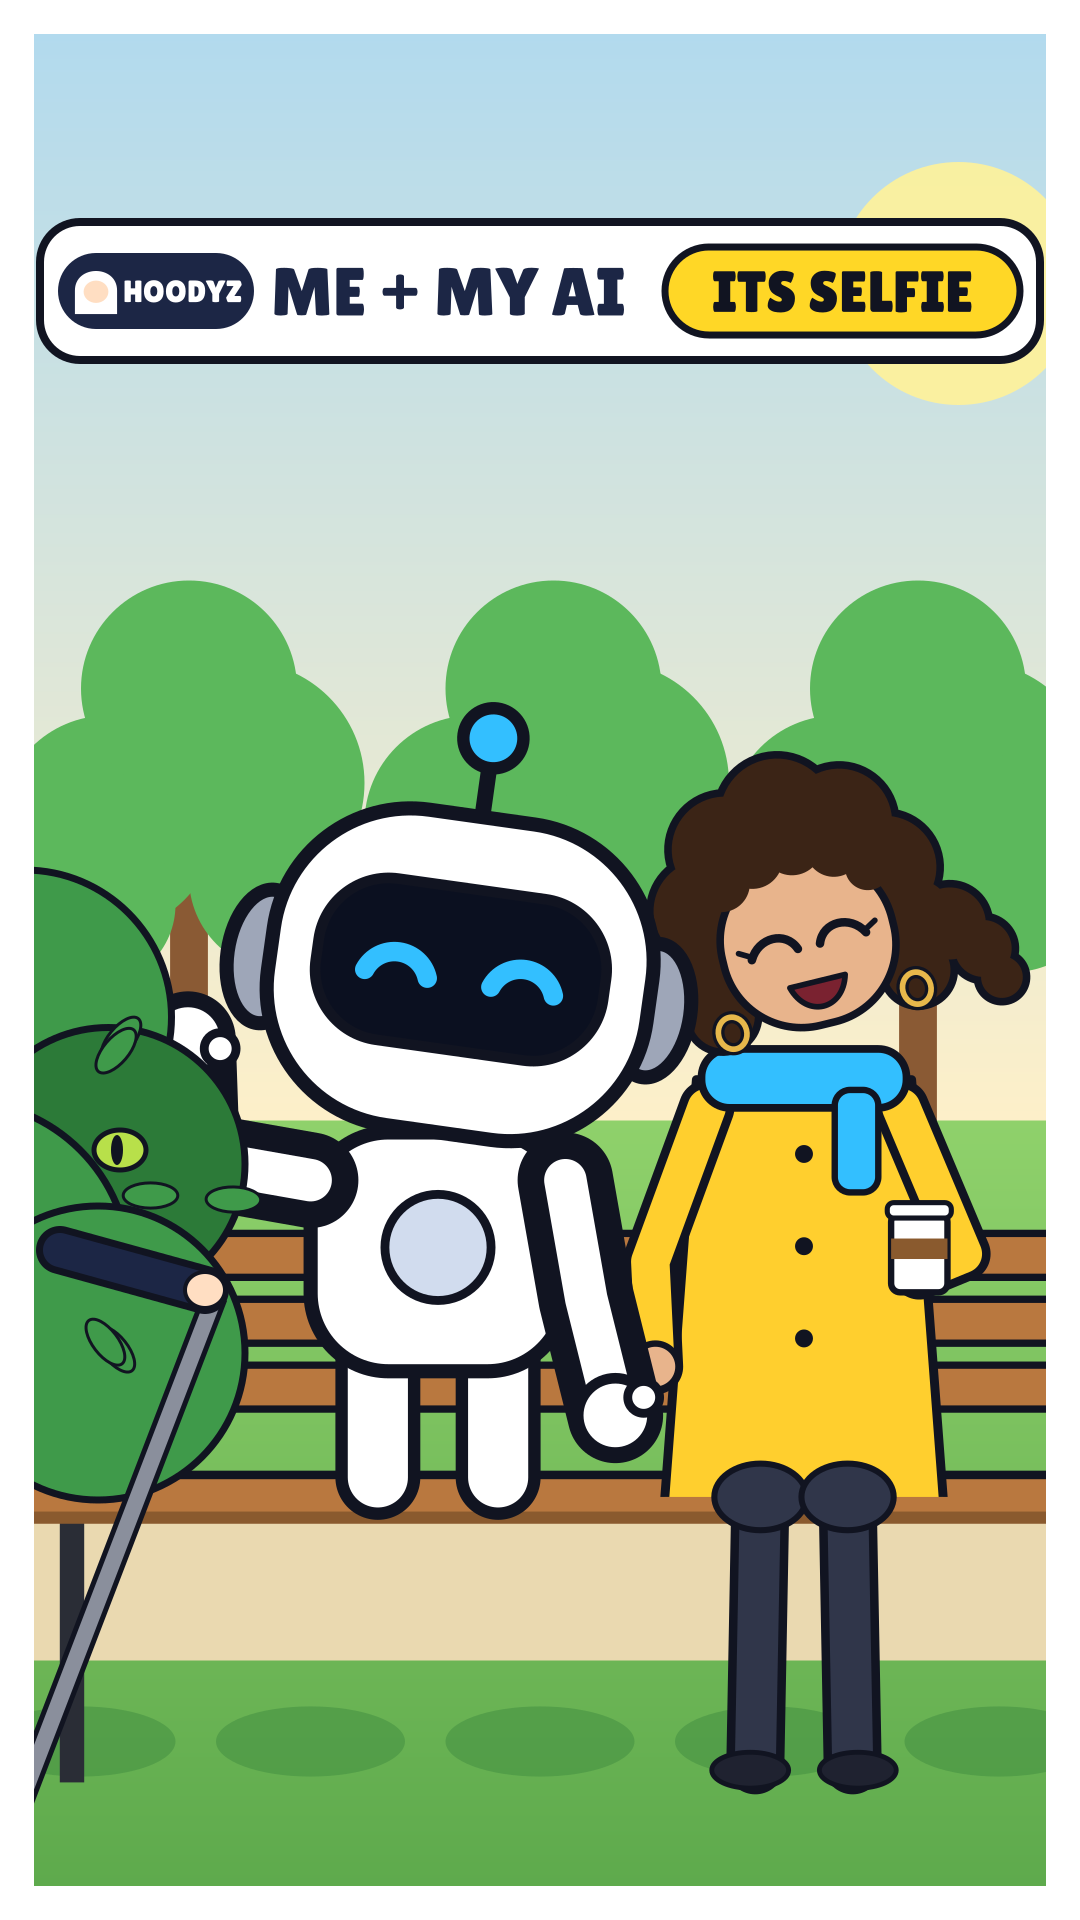
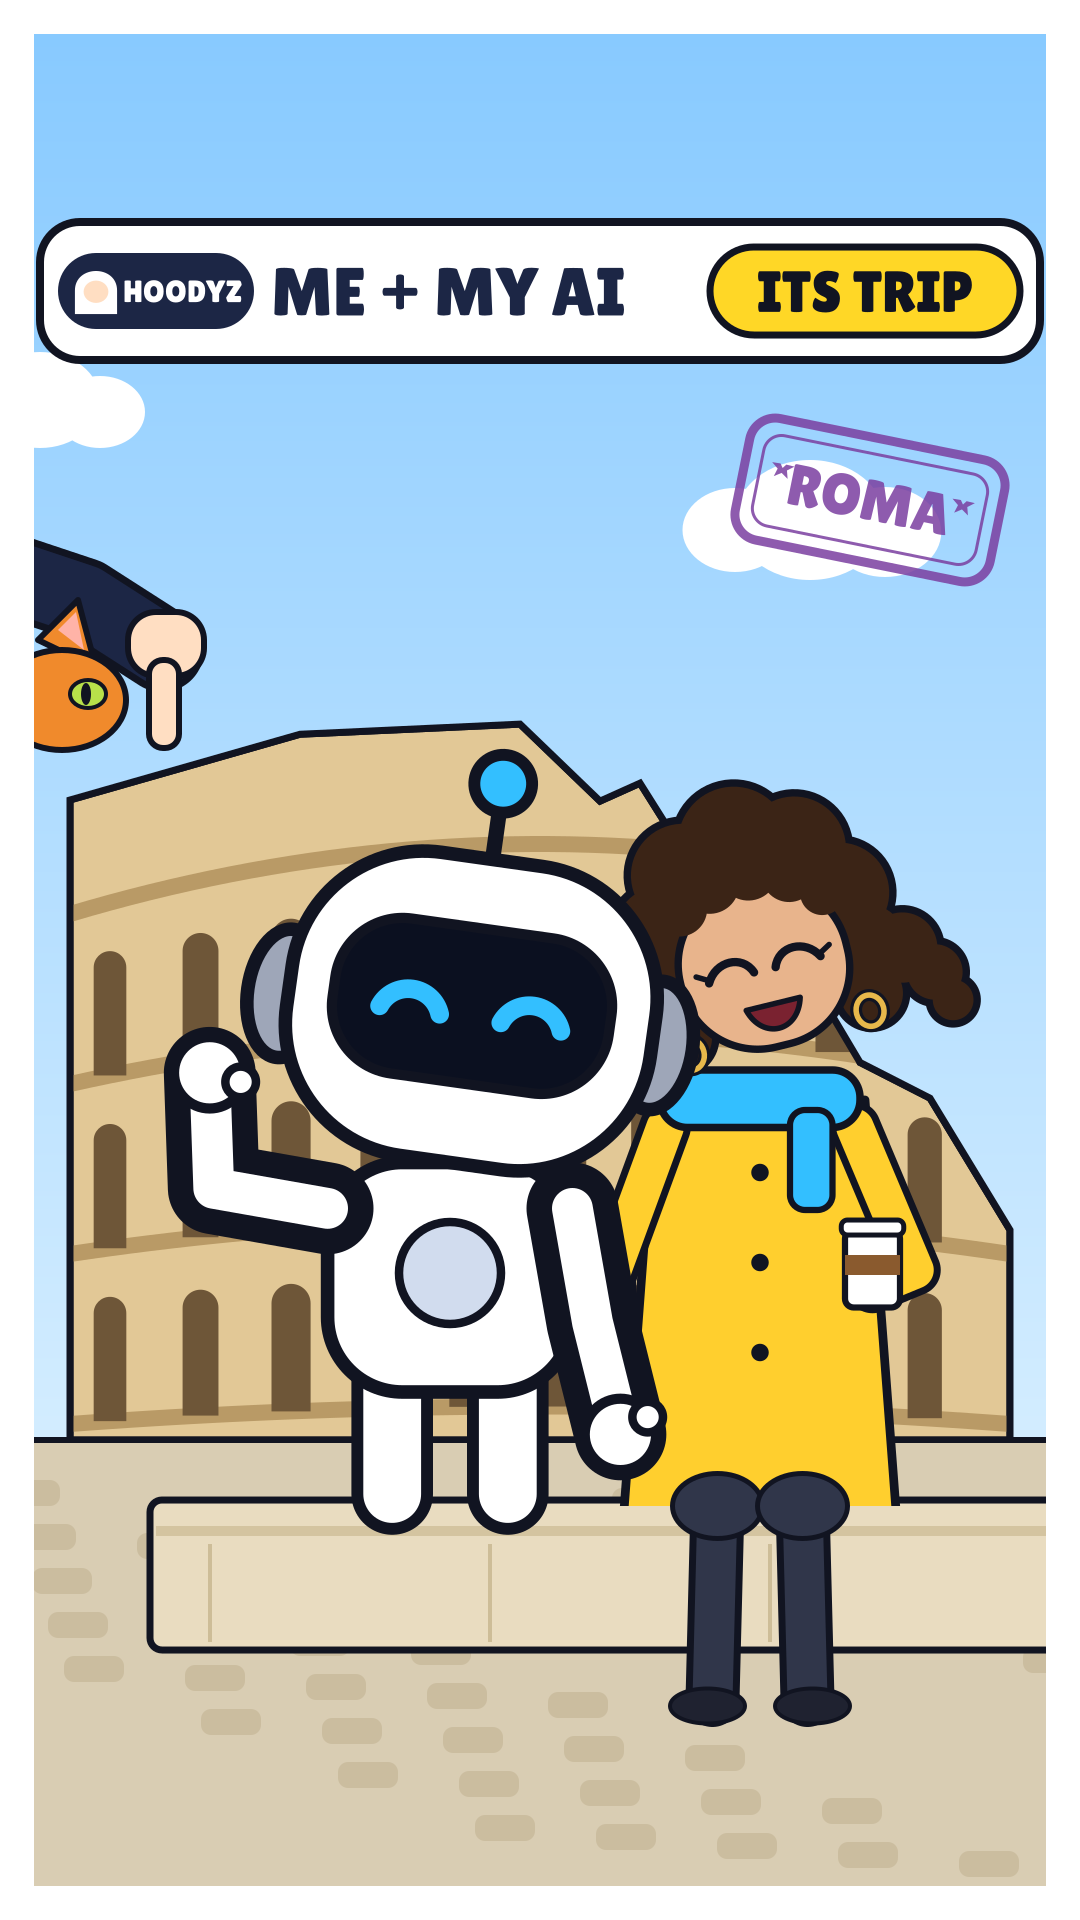
Perfect Trip: the Rome photo (finale) for approval
Eva seated on a travertine ledge leaning towards MY AI (open-palm wave, hands nearly touching);
Hoody's finger in from the left pressing the Colosseum's top (the forced-perspective pose, at last);
the cat's ear and eye peeking under his sleeve; ROMA stamp; ITS TRIP.

Claude-Session: https://claude.ai/code/session_01ED8DLRS3kXn1pdhXqYBM3Q

diff --git a/perfect-selfie/photo.py b/perfect-selfie/photo.py
@@ -1,11 +1,12 @@
 """Perfect Selfie - shot 9, THE PHOTO, as a still for approval (production gate 1).
 Eva seated on the bench, leaning her head towards MY AI (who stands on the seat, faces level, its perfect demo smile).
-At the left edge: the bush, a tiny navy sleeve gripping the selfie stick, and one cat's eye. Writes photo_still.png."""
+At the left edge: the bush, a tiny navy sleeve gripping the selfie stick, and one cat's eye. Writes photo_still.png. (v3: Rome, the end of the trip.)"""
 import os, sys, math, cairo
 HERE = os.path.dirname(os.path.abspath(__file__)); PD = os.path.join(HERE, '..', 'perfect-date')
 sys.path.insert(0, PD); sys.path.insert(0, os.path.join(PD, 'characters'))
 import render as R                      # Perfect Date: park, bench, Hoody's arm, the title bar
 import kit as K, chars as Sh, eva as E, myai as A
+import places as P
 from kit import INK, WHITE, NAVY, rr, fs, ell, limb, hx
 W, H = 1080, 1920
 LEAF, LEAF_D = hx('3f9a4a'), hx('2c7a38')
@@ -18,31 +19,39 @@ def bush(c, x, y, s, f=0):
         c.save(); c.translate(x + 60 * s + math.cos(a) * rr_ * s, y + 110 * s + math.sin(a) * rr_ * s); c.rotate(a)
         ell(c, 0, 0, 26 * s, 12 * s); fs(c, LEAF, 3); c.restore()
 
-def photo(c, f=0, label='ITS SELFIE'):
-    R.park(c, f, zoom=1.35, cy=1350)
-    c.save(); c.translate(560, 1880); c.scale(1.22, 1.22); c.translate(-560, -1880)   # a selfie is framed close
-    SEAT = 1560
-    R.bench(c, 120, 1180, SEAT, 1800)
-    # Eva, seated (her lap on the seat), her head leaning towards MY AI
-    es, ex = 1.05, 760
-    c.save(); c.rectangle(0, 0, W, SEAT + 6); c.clip()                    # seated: hips on the seat, the standing legs clipped away
-    E.eva(c, ex, SEAT + 250 * es, es, 'charmed', sip=0, tilt=-.24, pose='coffee'); c.restore()
-    for q in (-1, 1):                                                     # knees at the seat's edge, shins down to the path
-        limb(c, [(ex + q * 34 * es, SEAT + 4), (ex + q * 38 * es, 1786)], 32 * es, E.TROUS)
-        ell(c, ex + q * 34 * es, SEAT + 6, 36 * es, 26 * es); fs(c, E.TROUS, 5)
-        ell(c, ex + q * 42 * es, 1790, 30 * es, 14 * es); fs(c, E.SHOE, 4)
-    # MY AI standing on the seat beside her, faces level, the perfect demo smile and a photo wave
-    A.myai(c, 460, SEAT - 10, 1.45, eye='happy', arms=('wave', 'down'), tilt=8)
+def ledge(c, x0, x1, top, h=150):
+    """A travertine ledge in the square: somewhere to sit and stand."""
+    rr(c, x0, top, x1 - x0, h, 12); fs(c, hx('e9dcc0'), 7)
+    c.rectangle(x0 + 6, top + 26, x1 - x0 - 12, 10); c.set_source_rgb(*hx('d4c4a0')); c.fill()
+    for k in range(4): c.move_to(x0 + 60 + k * (x1 - x0 - 120) / 3, top + 44); c.line_to(x0 + 60 + k * (x1 - x0 - 120) / 3, top + h - 8); c.set_source_rgb(*hx('cdbd98')); c.set_line_width(4); c.stroke()
+
+def photo(c, f=0, label='ITS TRIP', stamp_k=1.0):
+    """Rome, the final photo. Reading order: the couple; Hoody's finger 'pressing' the Colosseum; the cat in the corner."""
+    P.rome(c, f)
+    TOP = 1500
+    ledge(c, 150, 1110, TOP)
+    es, ex = 1.25, 760
+    c.save(); c.rectangle(0, 0, W, TOP + 6); c.clip()                     # Eva seated on the ledge: hips on the top, standing legs clipped away
+    E.eva(c, ex, TOP + 250 * es, es, 'charmed', sip=0, tilt=-.24, pose='coffee'); c.restore()
+    for q in (-1, 1):                                                     # knees at the edge, shins down the front
+        limb(c, [(ex + q * 34 * es, TOP + 4), (ex + q * 38 * es, TOP + 200)], 32 * es, E.TROUS)
+        ell(c, ex + q * 34 * es, TOP + 6, 36 * es, 26 * es); fs(c, E.TROUS, 5)
+        ell(c, ex + q * 42 * es, TOP + 206, 30 * es, 14 * es); fs(c, E.SHOE, 4)
+    # MY AI standing on the ledge beside her: the perfect demo smile, a clear open-palm wave, its other hand nearly touching hers
+    A.myai(c, 450, TOP - 6, 1.7, eye='happy', arms=('wave', 'down'), tilt=8)
+    # Hoody: only his sleeve and finger, in from the left edge, pressing the Colosseum's corner - the forced-perspective pose, at last
+    c.save(); c.translate(44, 0)                                          # clear of the photo's border
+    tip = (120, 748)                                                     # down onto the Colosseum's top edge
+    limb(c, [(-80, 560), (40, 600), (118, 650)], 70, NAVY)                # sleeve in from the left edge, above the corner
+    rr(c, 84, 612, 76, 64, 28); fs(c, K.SKIN, 6)                          # the hand
+    rr(c, tip[0] - 15, 660, 30, tip[1] - 660, 14); fs(c, K.SKIN, 6)      # the finger, pressing down on the corner
+    # the cat, riding on his shoulder just out of frame: an ear tip and one eye peeking in under the sleeve
+    c.move_to(-6, 640); c.line_to(34, 600); c.line_to(52, 668); c.close_path(); fs(c, K.TABBY, 6)
+    c.move_to(14, 630); c.line_to(32, 612); c.line_to(40, 650); c.close_path(); c.set_source_rgb(*hx('ffb3a7')); c.fill()
+    ell(c, 18, 700, 64, 50); fs(c, K.TABBY, 6)
+    ell(c, 44, 694, 18, 14); fs(c, hx('b8e04a'), 4); ell(c, 42, 694, 5, 11); c.set_source_rgb(*INK); c.fill()
     c.restore()
-    # the bush at the left edge (in front, nearer the camera): his sleeve and hand grip the stick; one cat's eye beside it
-    bush(c, -70, 1080, 1.05)
-    hand = (205, 1290)
-    c.move_to(hand[0] + 10, hand[1] + 6); c.line_to(-40, 1960)                            # the stick, running back towards the camera
-    c.set_source_rgb(*INK); c.set_line_width(26); c.stroke_preserve(); c.set_source_rgb(*hx('8a8f9c')); c.set_line_width(16); c.stroke()
-    limb(c, [(60, 1250), hand], 34, NAVY)                                                  # a navy sleeve out of the leaves
-    ell(c, hand[0], hand[1], 20, 18); fs(c, K.SKIN, 4)
-    ell(c, 120, 1150, 26, 20); fs(c, hx('b8e04a'), 5); ell(c, 117, 1150, 6, 15); c.set_source_rgb(*INK); c.fill()   # the cat's one eye
-    # the photo's thin border
+    P.stamp(c, 'rome', k=stamp_k)
     c.rectangle(0, 0, W, H); c.rectangle(34, 34, W - 68, H - 68); c.set_fill_rule(cairo.FILL_RULE_EVEN_ODD); c.set_source_rgb(*WHITE); c.fill()
     c.set_fill_rule(cairo.FILL_RULE_WINDING)
     Sh.topbar(c, label)
